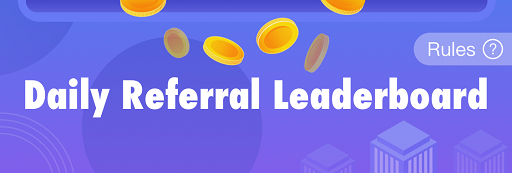
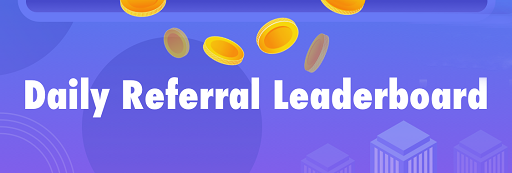
image change

Changed region(s): [[0.7812, 0.1734, 1.0, 0.3757]]

diff --git a/egg.html b/egg.html
@@ -107,7 +107,7 @@
         <div class="card-body" style="padding: 0;">
             <div align="center" style="position: relative;">
                 <img src="img/fun_follower_banner.png" style="width: 100%; border-top-left-radius: 10px; border-top-right-radius: 10px">
-                <button class="btn" style="position: absolute; border: 0; outline: none; top: 2%; right: 0; height: 25px; width: 50px; background-color: #ffffff00" onclick="ShowNotice('follow')"></button>
+<!--                <button class="btn" style="position: absolute; border: 0; outline: none; top: 2%; right: 0; height: 25px; width: 50px; background-color: #ffffff00" onclick="ShowNotice('follow')"></button>-->
             </div>
 
             <div style="margin-top: 10px;border-width: thin;border-color: #9B9B9B;">
@@ -151,7 +151,7 @@
         <div class="card-body" style="padding: 0;">
             <div align="center" style="position: relative;">
                 <img src="img/fun_leader_banner.png" style="width: 100%; border-top-left-radius: 10px; border-top-right-radius: 10px">
-                <button class="btn" style="position: absolute; border: 0; outline: none; top: 18%; right: 0; height: 25px; width: 70px; background-color: #ffffff00" onclick="ShowNotice('leader')"></button>
+<!--                <button class="btn" style="position: absolute; border: 0; outline: none; top: 18%; right: 0; height: 25px; width: 70px; background-color: #ffffff00" onclick="ShowNotice('leader')"></button>-->
             </div>
 
             <div style="margin-top: 10px;border-width: thin;border-color: #9B9B9B;">
